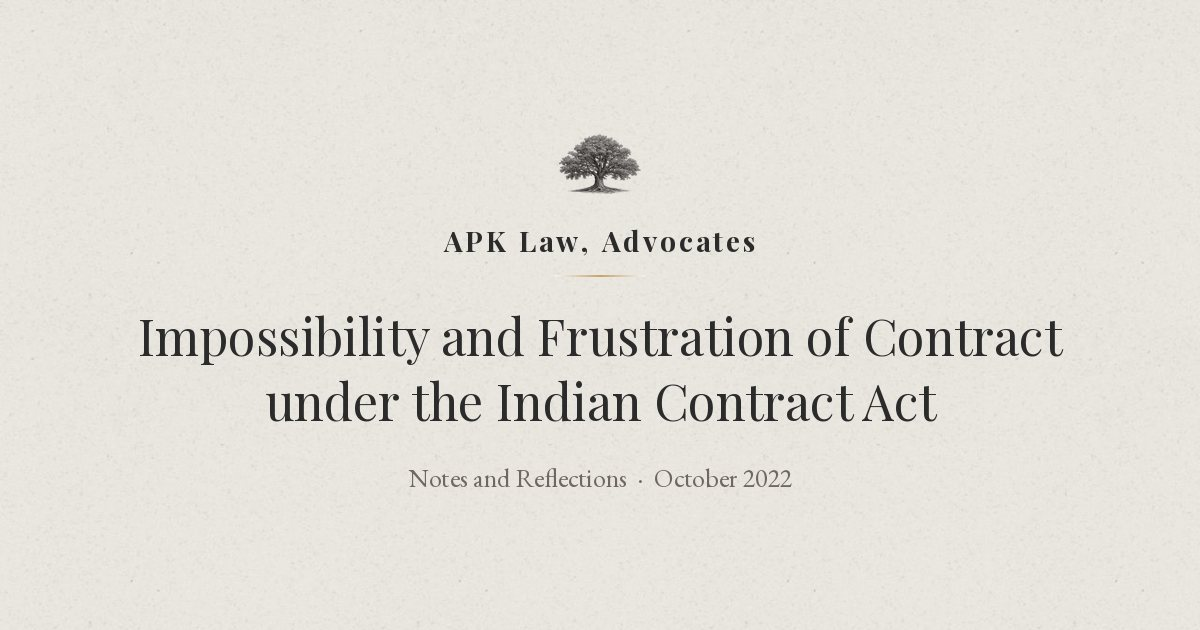
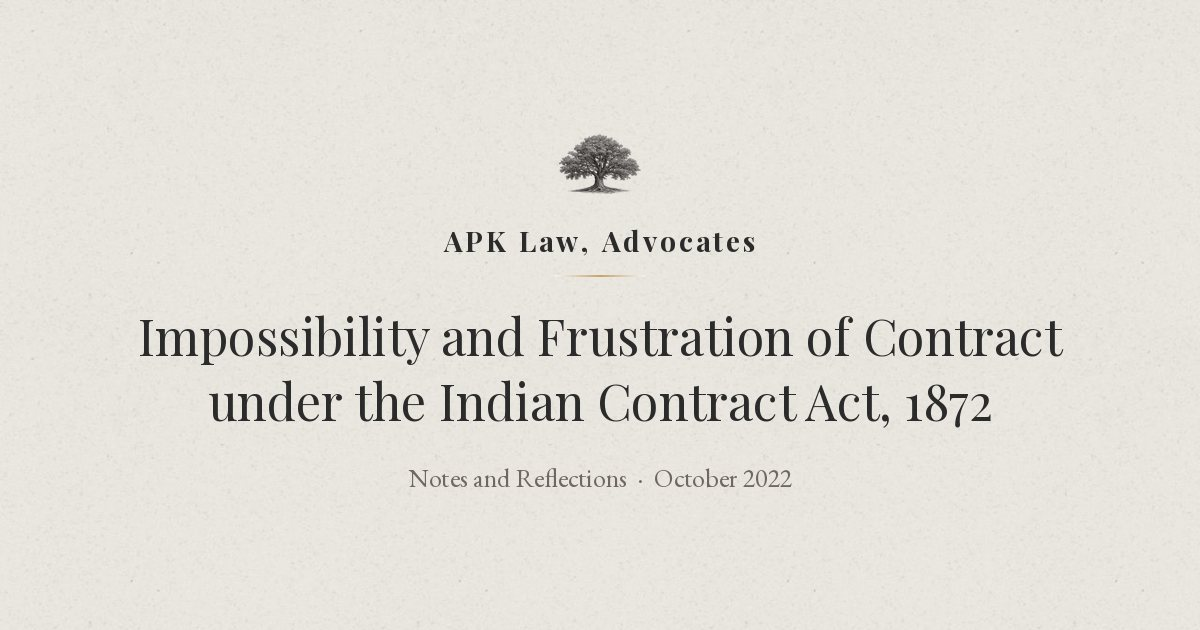
Use one title for the Impossibility article
Page heading, browser tab, link preview, structured data and share card
now all read "Impossibility and Frustration of Contract under the Indian
Contract Act, 1872", as in the archive list.

Claude-Session: https://claude.ai/code/session_012MTSjFJ95bZKztJcRNotNE

Changed region(s): [[0.1542, 0.6032, 0.8325, 0.6937]]

diff --git a/articles/impossibility-suspension-performance-indian-contract-act.html b/articles/impossibility-suspension-performance-indian-contract-act.html
@@ -6,20 +6,20 @@
 <meta charset="UTF-8">
 <meta name="viewport" content="width=device-width, initial-scale=1.0">
 
-<title>Impossibility and Frustration of Contract under the Indian Contract Act</title>
+<title>Impossibility and Frustration of Contract under the Indian Contract Act, 1872</title>
 
 <meta name="description" content="An examination of the frustration doctrine under Section 56 of the Indian Contract Act, the practical impossibility standard from Satyabrata Ghose, the Energy Watchdog restatement, temporary impossibility and suspension, and the drafting relationship between force majeure clauses and the statutory regime.">
 
 <!-- Open Graph -->
 <meta property="og:type" content="article">
-<meta property="og:title" content="Impossibility and Frustration of Contract under Section 56 of the Indian Contract Act, 1872">
+<meta property="og:title" content="Impossibility and Frustration of Contract under the Indian Contract Act, 1872">
 <meta property="og:description" content="An examination of the frustration doctrine under Section 56 of the Indian Contract Act, the practical impossibility standard from Satyabrata Ghose, the Energy Watchdog restatement, temporary impossibility and suspension, and the drafting relationship between force majeure clauses and the statutory regime.">
 <meta property="og:url" content="https://apklaw.in/articles/impossibility-suspension-performance-indian-contract-act.html">
 <meta property="og:site_name" content="APK Law">
 <meta property="og:image" content="https://apklaw.in/assets/share/impossibility-suspension-performance-indian-contract-act.jpg">
 <meta property="og:image:width" content="1200">
 <meta property="og:image:height" content="630">
-<meta property="og:image:alt" content="Impossibility and Frustration of Contract under the Indian Contract Act">
+<meta property="og:image:alt" content="Impossibility and Frustration of Contract under the Indian Contract Act, 1872">
 <meta name="twitter:card" content="summary_large_image">
 <meta property="article:published_time" content="2022-10">
 
@@ -29,7 +29,7 @@
 {
   "@context": "https://schema.org",
   "@type": "Article",
-  "headline": "Impossibility and Frustration of Contract under the Indian Contract Act",
+  "headline": "Impossibility and Frustration of Contract under the Indian Contract Act, 1872",
   "description": "An examination of the frustration doctrine under Section 56 of the Indian Contract Act, the practical impossibility standard from Satyabrata Ghose, the Energy Watchdog restatement, temporary impossibility and suspension, and the drafting relationship between force majeure clauses and the statutory regime.",
   "datePublished": "2022-10",
   "inLanguage": "en-IN",
@@ -73,7 +73,7 @@
 <a class="back-link" href="/articles/">← Notes and Reflections</a>
 
 <h1 class="article-title">
-Impossibility and Frustration of Contract under the Indian Contract Act
+Impossibility and Frustration of Contract under the Indian Contract Act, 1872
 </h1>
 
 <div class="article-date">October 2022</div>
